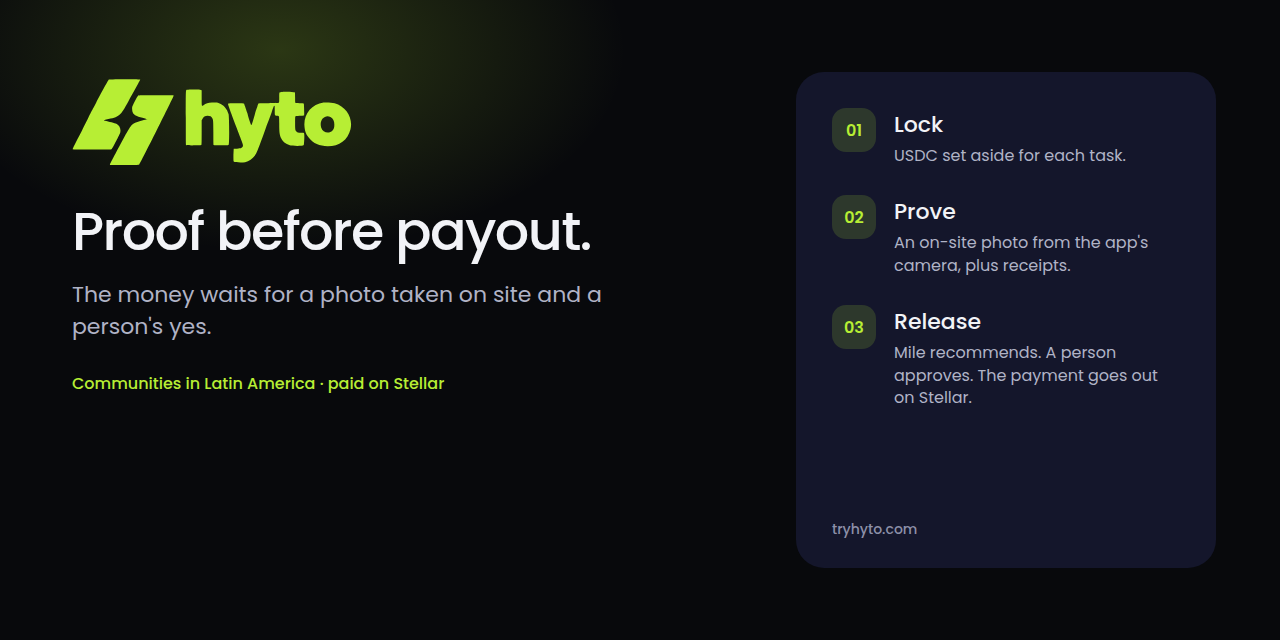
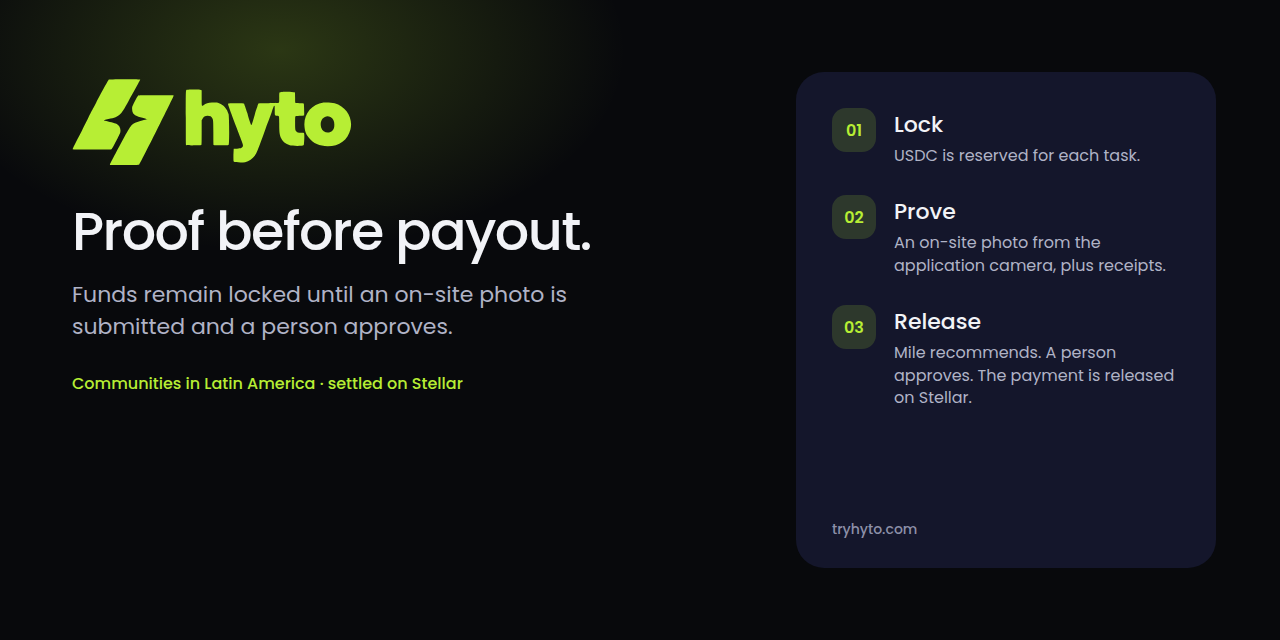
docs: use a formal register in the public README and preview
Keep the tagline and the recorded facts. Replace colloquial English and informal Spanish, including plata, voseo, and tú, with plain professional wording.

diff --git a/README.es.md b/README.es.md
@@ -1,47 +1,47 @@
-![Hyto. Primero la prueba, después el pago. La plata espera una foto tomada en el lugar y el sí de una persona.](docs/banner.svg)
+![Hyto. Primero la prueba, después el pago. Los fondos permanecen reservados hasta que se envía una foto tomada en el lugar y una persona aprueba.](docs/banner.svg)
 
-**Hyto: primero la prueba, después el pago.** Quien financia reserva USDC por cada tarea en Stellar. Quien hace el trabajo sube una foto tomada en el lugar, con la cámara de la app, y los recibos. Mile, el asistente de IA, compara esa evidencia y recomienda. Una persona aprueba y recién ahí se libera el pago. Se entra con el correo, por Cavos: no hay una billetera que instalar ni una frase secreta que guardar. Es un prototipo hecho para Find Your Way. Todavía sin pilotos.
+**Hyto: primero la prueba, después el pago.** Quien financia reserva USDC para cada tarea en Stellar. Quien realiza el trabajo envía una foto tomada en el lugar, con la cámara de la aplicación, junto con los recibos. Mile, el asistente de inteligencia artificial, compara esa evidencia y recomienda. Una persona aprueba, y solo entonces se libera el pago. El acceso es por correo electrónico, mediante Cavos, sin una aplicación de billetera aparte ni una frase secreta que conservar. Es un prototipo elaborado para Find Your Way. Aún no hay pilotos.
 
-La versión en inglés, que es la principal, está en [README.md](README.md).
+La versión principal, en inglés, está en [README.md](README.md).
 
-## Para quién es
+## A quién se dirige
 
-Para comunidades en América Latina, también las que están en cualquier cadena y las que no están físicamente en el lugar. Reciben estipendios, subvenciones y fondos para eventos desde lejos, y tienen que probar en qué se gastó. Stellar es el riel del pago.
+A comunidades de América Latina, incluidas las que operan en cualquier cadena y las que no están presentes físicamente. Reciben estipendios, subvenciones y fondos para eventos desde la distancia, y deben demostrar cómo se gastaron esos fondos. Stellar es la red de liquidación.
 
 ## Pantallas
 
-Modo demo, en el ancho de un teléfono. El evento de ejemplo sale de la semilla local. El modo demo no crea eventos y no firma un pago.
+Las imágenes corresponden al modo de demostración, en el ancho de un teléfono. El evento de ejemplo proviene de los datos locales de ejemplo. En el modo de demostración, crear un evento y firmar un pago requieren una sesión con correo electrónico.
 
-![Eventos, con el evento demo y una tarea en revisión](docs/screenshots/eventos.png)
+![Eventos, con el evento de demostración y una tarea en revisión](docs/screenshots/eventos.png)
 
-![Las tareas de quien participa. Mile revisa la foto antes de seguir.](docs/screenshots/tareas.png)
+![Tareas asignadas. Mile revisa la foto antes de que el envío continúe.](docs/screenshots/tareas.png)
 
-![Revisión de una foto de trabajo. Bloquear presupuesto queda apagado en el demo.](docs/screenshots/revision.png)
+![Revisión de una foto de trabajo. Reservar presupuesto permanece deshabilitado en el modo de demostración.](docs/screenshots/revision.png)
 
 ## Cómo funciona
 
-1. **Reservar.** Quien organiza aparta USDC para una tarea. Hyto abre un contrato multi-release v2 de [Trustless Work](https://www.trustlesswork.com) por tarea y lo fondea. La comisión de plataforma en Hyto es 0. Crear un evento exige que la billetera de la sesión cubra los montos más 1 USDC de reserva.
-2. **Probar.** Una tarea de trabajo pide una foto recién tomada con la cámara de la app, en el lugar. Las fotos de la galería se rechazan en esa tarea. Un reembolso también lleva el recibo, y quien organiza confirma el monto antes de poder reservar esa tarea.
-3. **Recomendar.** Mile compara la foto y los recibos con lo que pedía la tarea, y recomienda. No aprueba y no mueve la plata.
-4. **Liberar.** Una persona aprueba. Hyto marca el hito, lo aprueba y libera el pago en Stellar. El enlace abre stellar.expert cuando ya existe el hash de la transacción.
+1. **Reservar.** Quien organiza reserva USDC para una tarea. Hyto abre un contrato multi-release v2 de [Trustless Work](https://www.trustlesswork.com) por tarea y deposita los fondos. La comisión de plataforma en Hyto es 0. Crear un evento requiere que la billetera de la sesión cubra los montos de las tareas más 1 USDC de reserva.
+2. **Probar.** Una tarea de trabajo requiere una foto reciente tomada con la cámara de la aplicación, en el lugar donde se realizó el trabajo. Las fotos de la galería se rechazan en esa tarea. Un reembolso también requiere el recibo. Quien organiza confirma el monto antes de que esa tarea pueda reservarse.
+3. **Recomendar.** Mile compara la foto y los recibos con los requisitos de la tarea, y recomienda. Mile no aprueba el pago y no mueve los fondos.
+4. **Liberar.** Una persona aprueba. Hyto marca el hito, lo aprueba y libera el pago en Stellar. El enlace abre stellar.expert cuando el hash de la transacción está disponible.
 
-Lo que este repositorio liquida hoy está en la testnet de Stellar. Un saldo de USDC clásico necesita una trustline para que la cuenta pueda guardarlo. La app puede preparar esa trustline para la billetera de la sesión.
+Los pagos de este repositorio se liquidan en la red de prueba (testnet) de Stellar. Un saldo de USDC clásico requiere una línea de confianza (trustline) para que la cuenta pueda conservar el activo. La aplicación puede preparar esa línea de confianza para la billetera de la sesión.
 
-## Stack
+## Stack técnico
 
-| Capa | Qué usa la app |
+| Capa | Qué utiliza la aplicación |
 |---|---|
-| App | Next.js 16.3.6, React 19.1.1, TypeScript, Tailwind 4. Un solo cascarón: Eventos, Tareas, Cuenta. Inglés por defecto, español con la cookie `hyto_idioma`. |
-| Host | Vercel. Producción es [hyto.vercel.app](https://hyto.vercel.app). Un push a `main` lo despliega. Cada pull request tiene un preview. |
-| Datos | Neon Postgres con Drizzle. Las migraciones están en `drizzle/`. |
-| Fotos | Vercel Blob privado. La base guarda el id. La pantalla pide la foto a la app. |
-| Ingreso | Correo con Cavos (`@cavos/kit` 0.2.5) en la testnet de Stellar. El navegador no pide instalar una billetera primero. |
-| Red | Stellar y Soroban. El servidor arma la transacción sin firmar con `@stellar/stellar-sdk`. El navegador la firma con Cavos. |
-| Pago | Trustless Work v2, `https://beta.api.trustlesswork.com`. Un contrato por tarea. El servidor prepara la transacción. El navegador solo firma. |
+| Aplicación | Next.js 16.3.6, React 19.1.1, TypeScript, Tailwind 4. Una sola interfaz: Eventos, Tareas y Cuenta. Inglés de forma predeterminada; español mediante la cookie `hyto_idioma`. |
+| Alojamiento | Vercel. Producción es [hyto.vercel.app](https://hyto.vercel.app). Un envío a `main` despliega producción. Cada pull request recibe una vista previa. |
+| Datos | Neon Postgres mediante Drizzle. Las migraciones están en `drizzle/`. |
+| Fotos | Vercel Blob privado. La base de datos almacena el identificador. La pantalla carga la foto a través de la aplicación. |
+| Acceso | Correo electrónico con Cavos (`@cavos/kit` 0.2.5) en la testnet de Stellar. El acceso no requiere una aplicación de billetera aparte. |
+| Red | Stellar y Soroban. El servidor construye la transacción sin firmar con `@stellar/stellar-sdk`. El navegador la firma con Cavos. |
+| Pago | Trustless Work v2, `https://beta.api.trustlesswork.com`. Un contrato por tarea. El servidor prepara la transacción. El navegador solo la firma. |
 | USDC | USDC de testnet. El emisor en el código es `GBBD47IF6LWK7P7MDEVSCWR7DPUWV3NY3DTQEVFL4NAT4AQH3ZLLFLA5`. |
-| Mile | La visión de Groq describe la foto (`qwen/qwen3.8-27b`, o `GROQ_VISION_MODEL`). Gemini la describe solo si Groq falla y existe `GEMINI_API_KEY`. Laya puntúa la descripción cuando existe `LAYA_URL`. La nota va de 0 a 100. |
+| Mile | La visión de Groq describe la foto (`qwen/qwen3.8-27b`, o `GROQ_VISION_MODEL`). Gemini la describe solo si la llamada a Groq falla y `GEMINI_API_KEY` está definida. Laya califica la descripción cuando `LAYA_URL` está definida. La calificación va de 0 a 100. |
 
-## Correrlo en local
+## Ejecución local
 
 ```bash
 npm ci
@@ -49,9 +49,9 @@ npm run db:local
 npm run dev
 ```
 
-`npm run db:local` espera Postgres en `127.0.0.1:5432` (`postgres://hyto:hyto@127.0.0.1:5432/hyto`). Si no hay nada escuchando, levanta el Postgres de `docker-compose.yml`, aplica `drizzle/*.sql` y carga el ejemplo ZEEK. Copiá [.env.example](.env.example) a `.env.local` y completá solo los nombres que hagan falta. No subas secretos.
+`npm run db:local` espera Postgres en `127.0.0.1:5432` (`postgres://hyto:hyto@127.0.0.1:5432/hyto`). Si no hay un servicio en ese puerto, inicia Postgres según `docker-compose.yml`, aplica `drizzle/*.sql` y carga el ejemplo ZEEK. Se copia [.env.example](.env.example) a `.env.local` y se definen solo las variables necesarias para la ejecución local. Los secretos permanecen fuera del repositorio.
 
-El ingreso demo es `HYTO_DEMO_LOGIN=1`. La pantalla de ingreso ofrece entonces organizador y voluntario. Esas sesiones no crean eventos ni firman.
+El acceso de demostración es `HYTO_DEMO_LOGIN=1`. La pantalla de acceso ofrece entonces una cuenta de organizador y una cuenta de voluntario. Esas sesiones no crean eventos ni firman un pago.
 
 ```bash
 npm test
@@ -59,34 +59,34 @@ npx tsc --noEmit
 npm run build
 ```
 
-`npm test` corre los `*.test.ts` de `lib/`, `scripts/backend-traspaso` y dos archivos de `tests/integracion`, con `tsx`. `npm run test:integracion` habla con Postgres y va aparte. No migres ni siembres una base de producción salvo que quien la opera ponga `HYTO_CONFIRMAR_BASE_PRODUCCION=si`.
+`npm test` ejecuta los archivos `*.test.ts` de `lib/`, `scripts/backend-traspaso` y dos archivos de `tests/integracion`, con `tsx`. `npm run test:integracion` se conecta a Postgres y se ejecuta por separado. Una base de producción se migra o se carga con datos de ejemplo solo cuando la persona responsable define `HYTO_CONFIRMAR_BASE_PRODUCCION=si`.
 
-Quien cambie el código lee primero [AGENTS.md](AGENTS.md). El detalle del stack está en [STACK.md](STACK.md).
+Antes de modificar el código, se consulta [AGENTS.md](AGENTS.md). El detalle del stack está en [STACK.md](STACK.md).
 
-## Prueba en testnet
+## Comprobante en testnet
 
-El primer pago de punta a punta en testnet que queda registrado es esta transacción `release_funds` del 8 de octubre de 2026. Horizon la reporta exitosa. La llamada es `release_funds` y el sobre lleva USDC. Cayó la misma mañana que el arreglo del deploy en [#219](https://github.com/Hyto-App/hyto/pull/219).
+El primer pago de extremo a extremo registrado en testnet es esta transacción `release_funds` del 8 de octubre de 2026. Horizon la informa como exitosa. La función invocada es `release_funds`, y el sobre de la transacción incluye USDC. Se envió la misma mañana que la corrección del despliegue en [#219](https://github.com/Hyto-App/hyto/pull/219).
 
 [stellar.expert/explorer/testnet/tx/efb5826e291cae2540e3def1857d7d27d591a40fdbffd1afeb7ab96ba9b5b33c](https://stellar.expert/explorer/testnet/tx/efb5826e291cae2540e3def1857d7d27d591a40fdbffd1afeb7ab96ba9b5b33c)
 
[1 lines of base64/hex data omitted]
 
-Es testnet. Es plata de práctica. Los montos de ZEEK en la semilla (tres tareas de trabajo de US$20 y una comida con tope de US$15) son ejemplos. No son esta transacción.
+La transacción está en testnet. Los fondos son fondos de prueba. Los montos de ZEEK en los datos de ejemplo (tres tareas de trabajo de US$20 y una comida con un límite de US$15) son ejemplos. Son independientes de esta transacción.
 
 ## Equipo
 
-Nombres y focos que ya están en [ROLES.md](ROLES.md):
+Nombres y áreas de trabajo, tal como ya figuran en [ROLES.md](ROLES.md):
 
-| Persona | Foco |
+| Persona | Área |
 |---|---|
 | Abdiel Cole | UX, el archivo de Figma, Laya |
-| Esteban | API, Neon, Blob, revisión |
+| Esteban | API, Neon, Blob, canal de revisión |
 | Sebas | Pagos, Cavos, un pago real en testnet |
-| Josué | Cascarón de la app, flujos de administración, docs |
-| Raúl | Tareas de quien participa, subida de evidencia, cuentas |
+| Josué | Interfaz de la aplicación, flujos de administración, documentación |
+| Raúl | Tareas de los miembros, carga de evidencia, cuentas |
 
 ## Enlaces
 
-- App: https://hyto.vercel.app
-- Landing: https://tryhyto.com
-- Este repositorio todavía no trae un archivo de licencia.
+- Aplicación: https://hyto.vercel.app
+- Página de presentación: https://tryhyto.com
+- Este repositorio aún no incluye un archivo de licencia.

diff --git a/README.md b/README.md
@@ -1,45 +1,45 @@
-![Hyto. Proof before payout. The money waits for a photo taken on site and a person's yes.](docs/banner.svg)
+![Hyto. Proof before payout. Funds remain locked until an on-site photo is submitted and a person approves.](docs/banner.svg)
 
-**Hyto: proof before payout.** Funders lock USDC for each task on Stellar. Whoever does the work submits a photo taken on site with the app's camera, plus receipts. Mile, the AI assistant, compares that evidence and recommends. A person approves, and only then is the payment released. Sign-in is email through Cavos: there is no wallet app to install and no seed phrase to write down. This is a prototype built for Find Your Way. There are no pilots yet.
+**Hyto: proof before payout.** Funders lock USDC for each task on Stellar. The person who completes the work submits a photo taken on site with the application camera, together with receipts. Mile, the AI assistant, compares that evidence and recommends. A person approves, and only then is the payment released. Sign-in is by email through Cavos, without a separate wallet application or a seed phrase to store. This is a prototype built for Find Your Way. There are no pilots yet.
 
-**En español.** Primero la prueba, después el pago. Quien financia reserva USDC por cada tarea en Stellar. Quien hace el trabajo sube una foto tomada en el lugar, con la cámara de la app, y los recibos. Mile compara y recomienda. Una persona aprueba y recién ahí se libera el pago. La versión completa está en [README.es.md](README.es.md).
+**En español.** Primero la prueba, después el pago. Quien financia reserva USDC para cada tarea en Stellar. Quien realiza el trabajo envía una foto tomada en el lugar, con la cámara de la aplicación, y los recibos. Mile compara la evidencia y recomienda. Una persona aprueba, y solo entonces se libera el pago. El texto completo está en [README.es.md](README.es.md).
 
 ## Who it is for
 
-Communities in Latin America, including groups on any chain and groups that are not physically there. They receive stipends, grants, and event funds from far away, and they have to prove how that money was spent. Stellar is the payment rail.
+Communities in Latin America, including groups that operate on any chain and groups that are not physically present. They receive stipends, grants, and event funds from a distance, and they must show how those funds were spent. Stellar is the settlement network.
 
 ## Screens
 
-Demo mode, at a phone width. The sample event is local seed data. Demo mode does not create events and does not sign a payment.
+The images below show demo mode at a mobile width. The sample event comes from local seed data. In demo mode, creating an event and signing a payment require an email session.
 
 ![Events, with the demo event and one task in review](docs/screenshots/eventos.png)
 
-![A member's tasks. Mile checks the photo before it goes on.](docs/screenshots/tareas.png)
+![Assigned tasks. Mile reviews the photo before the submission continues.](docs/screenshots/tareas.png)
 
-![Evidence review for a work photo. Lock budget stays off in the demo.](docs/screenshots/revision.png)
+![Evidence review for a work photo. Lock budget remains unavailable in demo mode.](docs/screenshots/revision.png)
 
 ## How it works
 
-1. **Lock.** The organizer sets USDC aside for one task. Hyto opens one [Trustless Work](https://www.trustlesswork.com) v2 multi-release contract per task and funds it. The platform fee in Hyto is 0. Creating an event checks that the session wallet holds the task amounts plus a 1 USDC reserve.
-2. **Prove.** A work task needs a fresh photo from the in-app camera, taken where the work happened. Photos from the gallery are rejected for that task. A reimbursement also takes the receipt, and the organizer confirms the amount before that task can be locked.
-3. **Recommend.** Mile compares the photo and the receipts with what the task asked for, and recommends. He does not approve, and he does not move money.
-4. **Release.** A person approves. Hyto marks the milestone, approves it, and releases the payment on Stellar. The link opens on stellar.expert when the transaction hash exists.
+1. **Lock.** The organizer reserves USDC for one task. Hyto opens one [Trustless Work](https://www.trustlesswork.com) v2 multi-release contract per task and funds it. The platform fee in Hyto is 0. Creating an event requires the session wallet to hold the task amounts plus a 1 USDC reserve.
+2. **Prove.** A work task requires a new photo from the camera in the application, taken where the work took place. Gallery photos are rejected for that task. A reimbursement also requires the receipt. The organizer confirms the amount before that task can be locked.
+3. **Recommend.** Mile compares the photo and the receipts with the task requirements and recommends. Mile does not approve the payment and does not move funds.
+4. **Release.** A person approves. Hyto marks the milestone, approves it, and releases the payment on Stellar. The link opens on stellar.expert when the transaction hash is available.
 
-What this repository settles today is on Stellar testnet. A classic USDC balance needs a trustline before the account can hold it. The app can prepare that trustline for the session wallet.
+Payments in this repository settle on Stellar testnet. A classic USDC balance requires a trustline before the account can hold the asset. The application can prepare that trustline for the session wallet.
 
 ## Tech stack
 
-| Layer | What the app uses |
+| Layer | What the application uses |
 |---|---|
-| App | Next.js 16.3.6, React 19.1.1, TypeScript, Tailwind 4. One App Router shell: Events, Tasks, Account. English by default, Spanish from the `hyto_idioma` cookie. |
-| Host | Vercel. Production is [hyto.vercel.app](https://hyto.vercel.app). A push to `main` deploys it. Each pull request gets a preview. |
-| Data | Neon Postgres through Drizzle. Migrations live in `drizzle/`. |
-| Photos | Private Vercel Blob. The database stores the id. The screen loads the photo through the app. |
-| Sign-in | Cavos email (`@cavos/kit` 0.2.5) on Stellar testnet. The browser does not ask anyone to install a wallet first. |
+| App | Next.js 16.3.6, React 19.1.1, TypeScript, Tailwind 4. One App Router shell: Events, Tasks, Account. English by default; Spanish from the `hyto_idioma` cookie. |
+| Host | Vercel. Production is [hyto.vercel.app](https://hyto.vercel.app). A push to `main` deploys production. Each pull request receives a preview. |
+| Data | Neon Postgres through Drizzle. Migrations are in `drizzle/`. |
+| Photos | Private Vercel Blob. The database stores the identifier. The screen loads the photo through the application. |
+| Sign-in | Cavos email (`@cavos/kit` 0.2.5) on Stellar testnet. Sign-in does not require a separate wallet application. |
 | Chain | Stellar and Soroban. The server builds the unsigned transaction with `@stellar/stellar-sdk`. The browser signs it with Cavos. |
-| Payment | Trustless Work v2, `https://beta.api.trustlesswork.com`. One contract per task. The server prepares the transaction. The browser only signs. |
-| USDC | Testnet USDC. The issuer in code is `GBBD47IF6LWK7P7MDEVSCWR7DPUWV3NY3DTQEVFL4NAT4AQH3ZLLFLA5`. |
-| Mile | Groq vision describes the photo (`qwen/qwen3.8-27b`, or `GROQ_VISION_MODEL`). Gemini describes it only if Groq fails and `GEMINI_API_KEY` is set. Laya scores the description when `LAYA_URL` is set. The grade is 0–100. |
+| Payment | Trustless Work v2, `https://beta.api.trustlesswork.com`. One contract per task. The server prepares the transaction. The browser only signs it. |
+| USDC | Testnet USDC. The issuer in the code is `GBBD47IF6LWK7P7MDEVSCWR7DPUWV3NY3DTQEVFL4NAT4AQH3ZLLFLA5`. |
+| Mile | Groq vision describes the photo (`qwen/qwen3.8-27b`, or `GROQ_VISION_MODEL`). Gemini describes it only if the Groq call fails and `GEMINI_API_KEY` is set. Laya scores the description when `LAYA_URL` is set. The grade is 0–100. |
 
 ## Running locally
 
@@ -49,9 +49,9 @@ npm run db:local
 npm run dev
 ```
 
-`npm run db:local` expects Postgres on `127.0.0.1:5432` (`postgres://hyto:hyto@127.0.0.1:5432/hyto`). If nothing is listening, it starts the Postgres service in `docker-compose.yml`, applies `drizzle/*.sql`, and loads the ZEEK sample. Copy [.env.example](.env.example) to `.env.local` and fill only the names you need. Do not commit secrets.
+`npm run db:local` expects Postgres at `127.0.0.1:5432` (`postgres://hyto:hyto@127.0.0.1:5432/hyto`). If nothing is listening, it starts the Postgres service in `docker-compose.yml`, applies `drizzle/*.sql`, and loads the ZEEK sample. Copy [.env.example](.env.example) to `.env.local` and set only the variables required for the local run. Secrets stay out of the repository.
 
-Demo login is `HYTO_DEMO_LOGIN=1`. The sign-in screen then offers an organizer and a volunteer. Those sessions cannot create events or sign.
+Demo login is `HYTO_DEMO_LOGIN=1`. The sign-in screen then offers an organizer account and a volunteer account. Those sessions cannot create events or sign a payment.
 
 ```bash
 npm test
@@ -59,34 +59,34 @@ npx tsc --noEmit
 npm run build
 ```
 
-`npm test` runs the `*.test.ts` files under `lib/`, `scripts/backend-traspaso`, and two files in `tests/integracion`, with `tsx`. `npm run test:integracion` talks to Postgres and is separate. Do not migrate or seed a production database unless the database owner sets `HYTO_CONFIRMAR_BASE_PRODUCCION=si`.
+`npm test` runs the `*.test.ts` files under `lib/`, `scripts/backend-traspaso`, and two files in `tests/integracion`, with `tsx`. `npm run test:integracion` connects to Postgres and runs separately. A production database is migrated or seeded only when the database owner sets `HYTO_CONFIRMAR_BASE_PRODUCCION=si`.
 
-People changing the code should read [AGENTS.md](AGENTS.md) first. Stack detail is in [STACK.md](STACK.md).
+Contributors should read [AGENTS.md](AGENTS.md) before changing the code. Further stack detail is in [STACK.md](STACK.md).
 
 ## Testnet proof
 
-The first end-to-end testnet payment on record is this `release_funds` transaction from 8 October 2026. Horizon reports it successful. The call is `release_funds` and the envelope carries USDC. It landed the same morning as the deploy fix in [#219](https://github.com/Hyto-App/hyto/pull/219).
+The first recorded end-to-end testnet payment is this `release_funds` transaction from 8 October 2026. Horizon reports it as successful. The invoked function is `release_funds`, and the transaction envelope includes USDC. It was submitted the same morning as the deploy fix in [#219](https://github.com/Hyto-App/hyto/pull/219).
 
 [stellar.expert/explorer/testnet/tx/efb5826e291cae2540e3def1857d7d27d591a40fdbffd1afeb7ab96ba9b5b33c](https://stellar.expert/explorer/testnet/tx/efb5826e291cae2540e3def1857d7d27d591a40fdbffd1afeb7ab96ba9b5b33c)
 
[1 lines of base64/hex data omitted]
 
-This is testnet. It is practice money. The ZEEK amounts in the seed (three US$20 work tasks and a meal cap of US$15) are examples. They are not this transaction.
+The transaction is on testnet. The funds are test funds. The ZEEK amounts in the seed (three US$20 work tasks and a meal cap of US$15) are examples. They are separate from this transaction.
 
 ## Team
 
-Names and focuses already written in [ROLES.md](ROLES.md):
+Names and areas of focus, as already listed in [ROLES.md](ROLES.md):
 
 | Person | Focus |
 |---|---|
 | Abdiel Cole | UX, the Figma file, Laya |
 | Esteban | API, Neon, Blob, review pipeline |
 | Sebas | Payments, Cavos, a real testnet payment |
-| Josué | App shell, admin flows, docs |
+| Josué | Application shell, admin flows, documentation |
 | Raúl | Member tasks, evidence upload, accounts |
 
 ## Links
 
-- App: https://hyto.vercel.app
-- Landing: https://tryhyto.com
-- This repository does not include a license file yet.
+- Application: https://hyto.vercel.app
+- Landing page: https://tryhyto.com
+- This repository does not yet include a license file.
